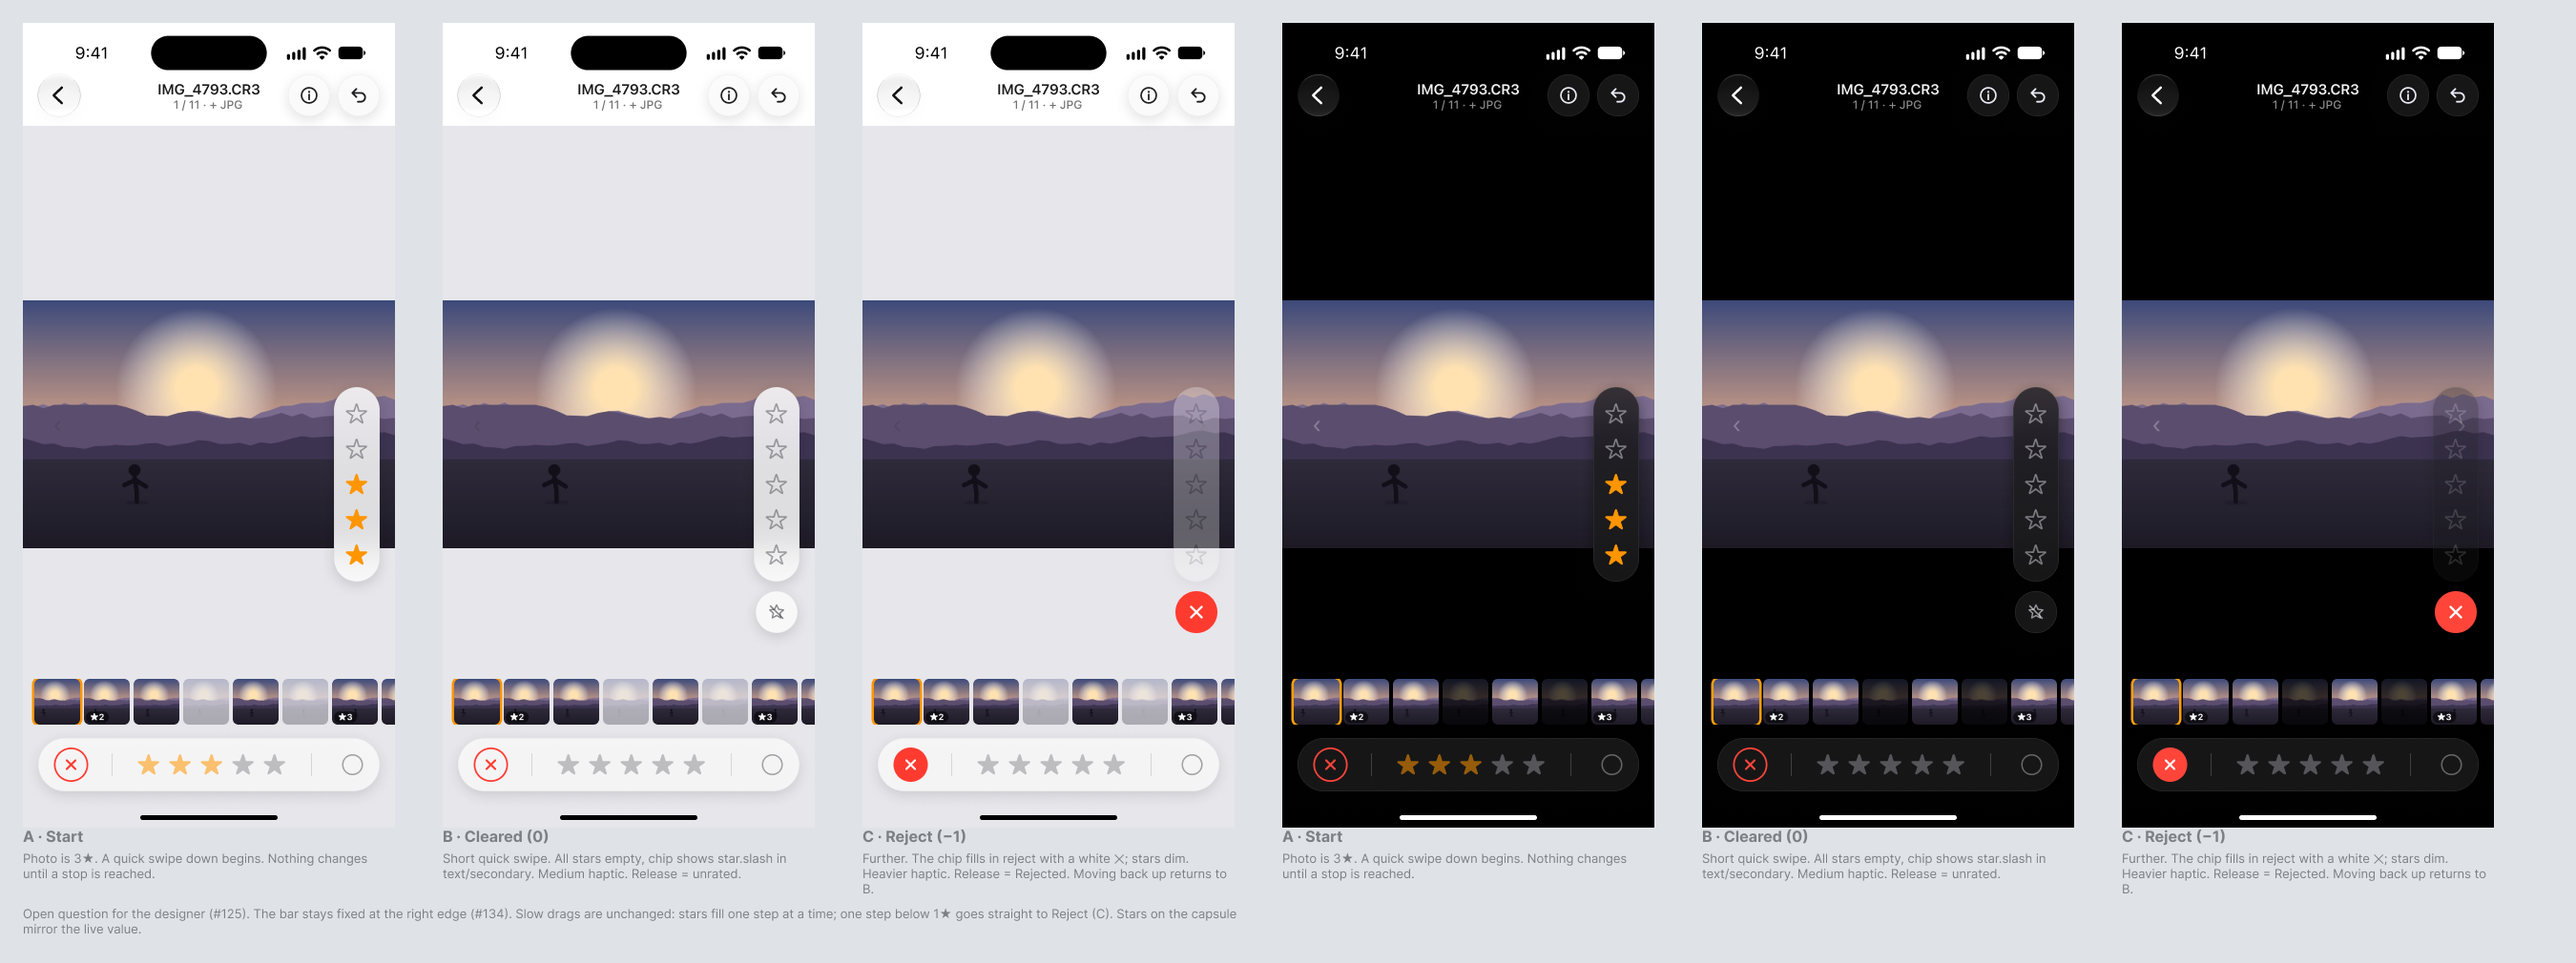
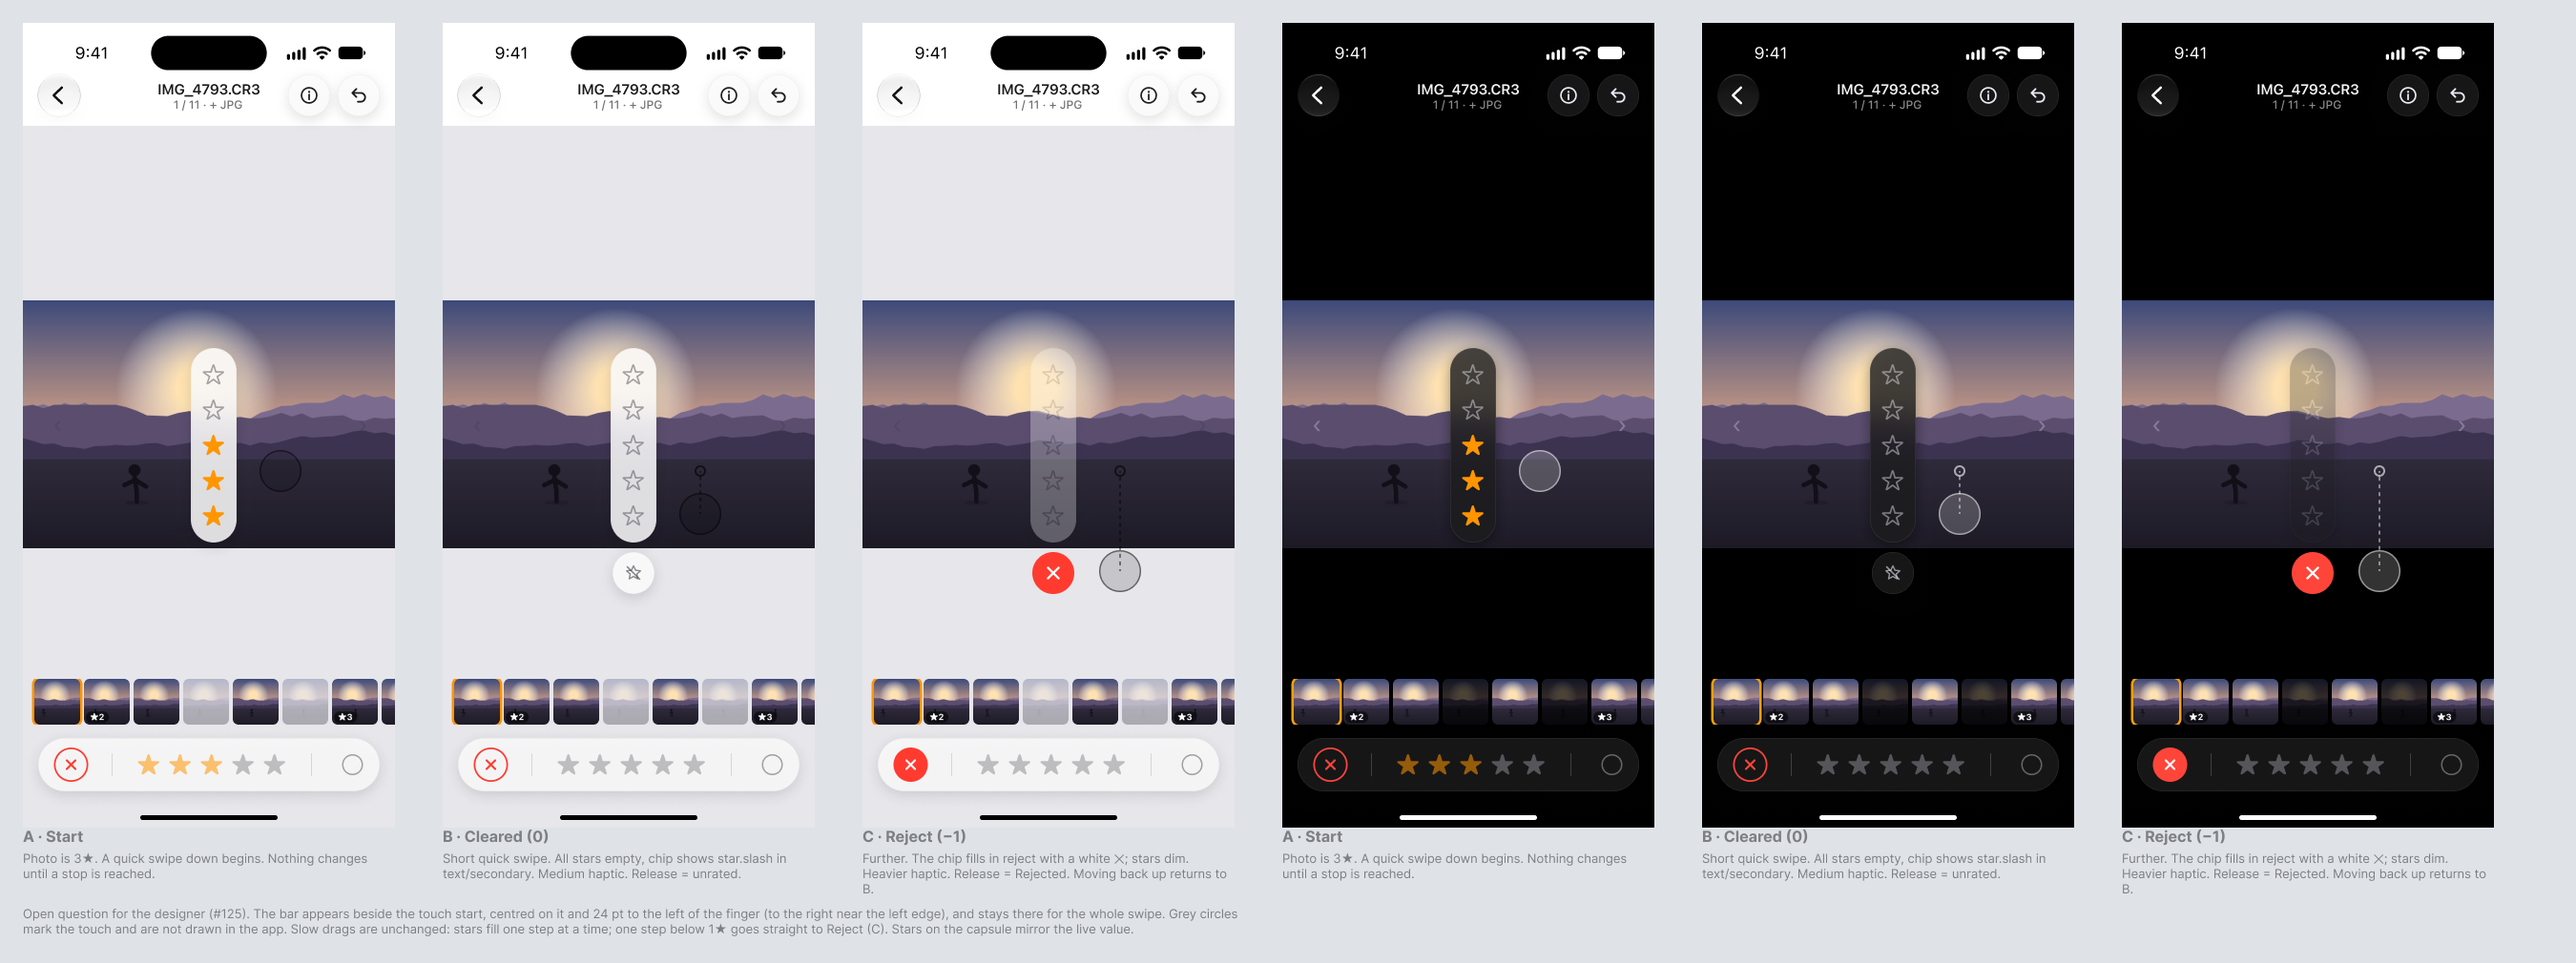
Place the swipe star bar beside the touch start
The bar was fixed at the right edge. It now appears beside where the
swipe started and stays there for the swipe. Updates the swipe-up frame,
the #125 proposal board, their PNGs and the handoff docs.

Claude-Session: https://claude.ai/code/session_01NdeqBr3nLyagZRGCvsx2vS

diff --git a/design/handoff/screens.md b/design/handoff/screens.md
@@ -93,7 +93,7 @@ Devices:
 
 **Label popover**: tapping the label circle pops 5 color dots (plus none) above the capsule. Picking one closes it.
 
-**Swipe-up star bar**: swiping up on the photo shows a compact vertical bar of empty stars that fill from the bottom as you drag, up to the enabled levels. A ✕ chip below it is the swipe-down reject. The capsule stars preview the live value.
+**Swipe-up star bar**: swiping up on the photo shows a compact vertical bar of empty stars that fill from the bottom as you drag, up to the enabled levels. A ✕ chip below it is the swipe-down reject. The bar appears beside where the swipe started: vertically centred on the touch start, 24 pt to the left of the finger (to its right when the touch starts in the left third), kept inside the stage clear of the top bar and filmstrip. It stays put for the rest of the swipe, so the finger moves along it. The grey circles in the frame mark the touch and are not drawn in the app. The capsule stars preview the live value.
 
 **Info sheet** (medium detent, read-only in the MVP)
 - Capture: time with subseconds, camera and serial, lens, exposure.
@@ -103,7 +103,7 @@ Devices:
 
 **Save failure toast**: when a mark can't be written, one glass toast says "Couldn't save the mark." with no action, and the photo goes back to the marks in its file. There is no subtitle status and no Retry. One toast per failure burst; it hides after about 6 seconds. In the frame it sits above the filmstrip so it doesn't cover the capsule; the build currently draws it at the bottom edge over the capsule (see the note in `decisions-log.md`).
 
-**Swipe star bar: cleared step (proposal, #125, not reviewed)**: a quick swipe down from a rated photo now stops at 0 before Reject. The proposal shows three stops on a 3★ photo: A start (no chip), B cleared (all stars empty, the chip slot shows `star.slash` in `text/secondary`), C reject (the chip fills in `reject` with a white ✕ and the stars dim). The bar stays fixed at the right edge (#134). Waiting on the designer.
+**Swipe star bar: cleared step (proposal, #125, not reviewed)**: a quick swipe down from a rated photo now stops at 0 before Reject. The proposal shows three stops on a 3★ photo: A start (no chip), B cleared (all stars empty, the chip slot shows `star.slash` in `text/secondary`), C reject (the chip fills in `reject` with a white ✕ and the stars dim). The bar sits beside the touch start, as in the swipe-up frame. Waiting on the designer.
 
 **100% zoom**: the capsule, filmstrip, Info and Undo hide. The subtitle shows "100%", and a small "100%" chip fades out.
 

diff --git a/design/handoff/components.md b/design/handoff/components.md
@@ -21,7 +21,7 @@ All floating controls use one glass material:
 | **Stars** | Capsule | Filled stars in `rating/on`, empty in `rating/off`. Tapping the current value clears it. |
 | **Label circle** | Capsule, Duo dock | A 36 pt circle filled with the current label color, or an empty outlined circle for none. Tapping opens the label picker. |
 | **Label picker** | Above the capsule (iPhone); beside the dock (Duo) | A glass capsule of 6 dots: none, red, yellow, green, blue, purple (`label/*`). The current one is ringed. Picking closes it. |
-| **Vertical star bar (swipe-up)** | iPhone detail on swipe up; Duo dock on slide | A narrow glass pill of 5 stars stacked vertically that **fill from the bottom** while dragging, plus a ✕ chip below it for the swipe-down reject. iPad rail version: 43 × 174, radius 22, padding 10, gap 6, tap or drag. |
+| **Vertical star bar (swipe-up)** | iPhone detail on swipe up; Duo dock on slide | A narrow glass pill of 5 stars stacked vertically that **fill from the bottom** while dragging, plus a ✕ chip below it for the swipe-down reject. On iPhone and the Duo cover it appears beside the touch start (centred on it, 24 pt to the left of the finger, or to its right when the touch starts in the left third) and does not move during the swipe. iPad rail version: 43 × 174, radius 22, padding 10, gap 6, tap or drag. |
 | **Duo dock** | Duo expanded, right edge | A vertical column under the status bar, centered on the signal icon. Back alone (36 circle), then 41 pt wide capsules (radius 20, padding 2/4, gap 2): **view tools** (Filter, "…", Info), **marks** (★ value button 36 × 48 showing "★ 2", Reject 32, Label 36; only while a photo is open), **bottom** (Undo, Move Rejects). |
 | **iPad rail** | iPad detail, right, 96 wide | The vertical star bar, a hairline, the Reject circle (40), and the label dots, top aligned with padding 18 and gap 10. It sits beside the stage and never hides. Label dots are tapped directly (no popover); the current one has a ring. Each control has a hover tooltip (`.help`) with its VoiceOver label: a small `surface/card` pill, radius 6, 12 pt text, to the left of the control. |
 | **iPad sidebar** | iPad grid, left, 280 wide | Folder name and source, then Locations (only with subfolders), Filters (Unmarked, Rejected, one ★n+ row per rating that has photos), Color labels (only labels in use) and Similar groups (one row with a regroup glyph button; a spinner while grouping). One selected row in `accent`. Counts trail each row. |

diff --git a/design/handoff/interactions.md b/design/handoff/interactions.md
@@ -30,7 +30,7 @@ Grid ─Move Rejects─▶ Confirm sheet ─Move─▶ Grid + toast (Undo / Deta
 | Grid | Filter button | Opens the filter menu. Picking an item applies it at once, and the button fills with `accent`. |
 | Grid | "…" ▶ Select | Select mode: tap tiles to toggle, then use the capsule to mark all of them. Done exits. |
 | Detail | Swipe left or right | Next or previous photo in grid order (filtered order when a filter is on). |
-| Detail | **Swipe up** and hold | Shows the vertical star bar. Dragging up fills stars from the bottom; release commits. The capsule stars preview the live value. |
+| Detail | **Swipe up** and hold | Shows the vertical star bar beside where the swipe started (centred on the touch start, 24 pt to the left of the finger, or to its right when the touch starts in the left third; clamped inside the stage). It stays put while the finger moves. Dragging up fills stars from the bottom; release commits. The capsule stars preview the live value. |
 | Detail | **Swipe down** | Reject (the ✕ chip under the star bar). Coming with #125: a quick swipe down first clears the rating to 0, then rejects; see the proposal frame `03-detail-swipe-star-bar-cleared-step-proposal`. |
 | Detail | Tap the capsule's reject, stars or label | Sets the mark directly. Tapping the current star value clears it. The label opens the picker, and picking closes it. |
 | Detail | Single tap on the photo | Hides or shows the chrome (capsule, filmstrip, top bar buttons). |

diff --git a/design/handoff/decisions-log.md b/design/handoff/decisions-log.md
@@ -8,6 +8,10 @@ iPad: sidebar and full grid; detail opens full screen; no grid-beside-detail lay
 
 iPad detail: the right rail replaces the capsule and never hides; swipe marking stays (supervisor, 2026-11-12, issue #150)
 
+## Swipe star bar sits beside the touch (owner, 2026-11-12)
+
+The swipe star bar is no longer fixed at the right edge. It appears beside where the swipe started, vertically centred on the touch start and 24 pt to the left of the finger (to its right when the touch starts in the left third), clamped inside the stage clear of the top bar and filmstrip. It stays put for the whole swipe, so it never sits under the finger and does not chase it. This supersedes "a fixed indicator at the right edge, never under the finger" (#125 comment, built in #145). Frames: `03-detail-swipe-up-star-bar` and the #125 proposal board.
+
 ## Figma frames synced to the build (2026-11-12)
 
 The frames on the "Clove · MVP design" page now match the app on main at `7470617` (owner's implementation notes, 2026-11-12). The 10 Nov versions of every removed or redrawn frame are on the Archive page under "Superseded · 10 Nov handoff".
